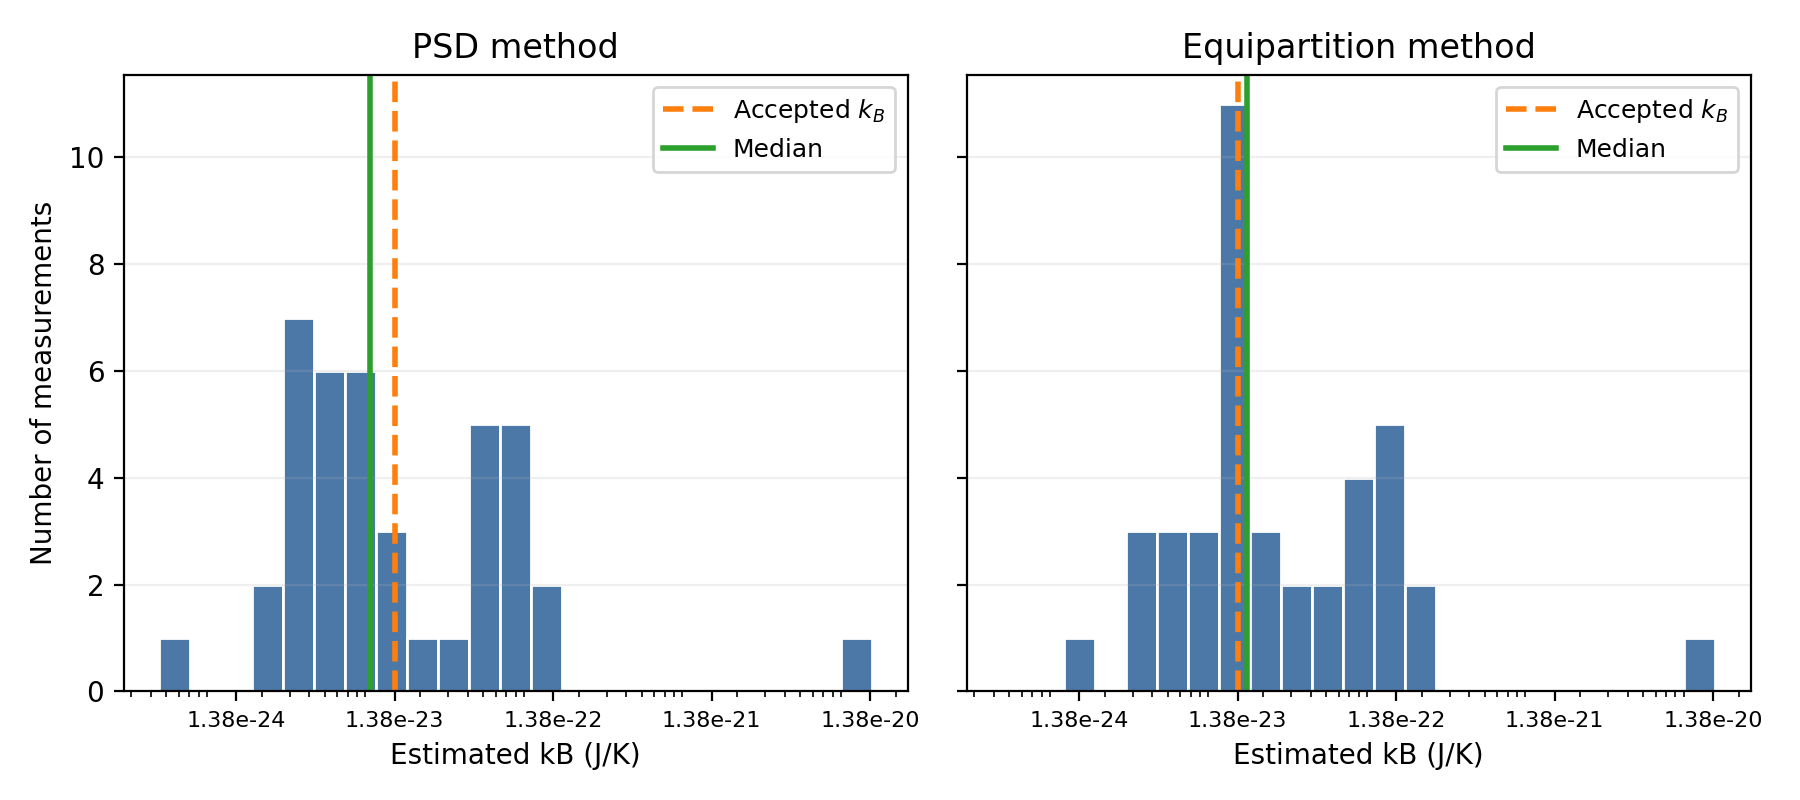
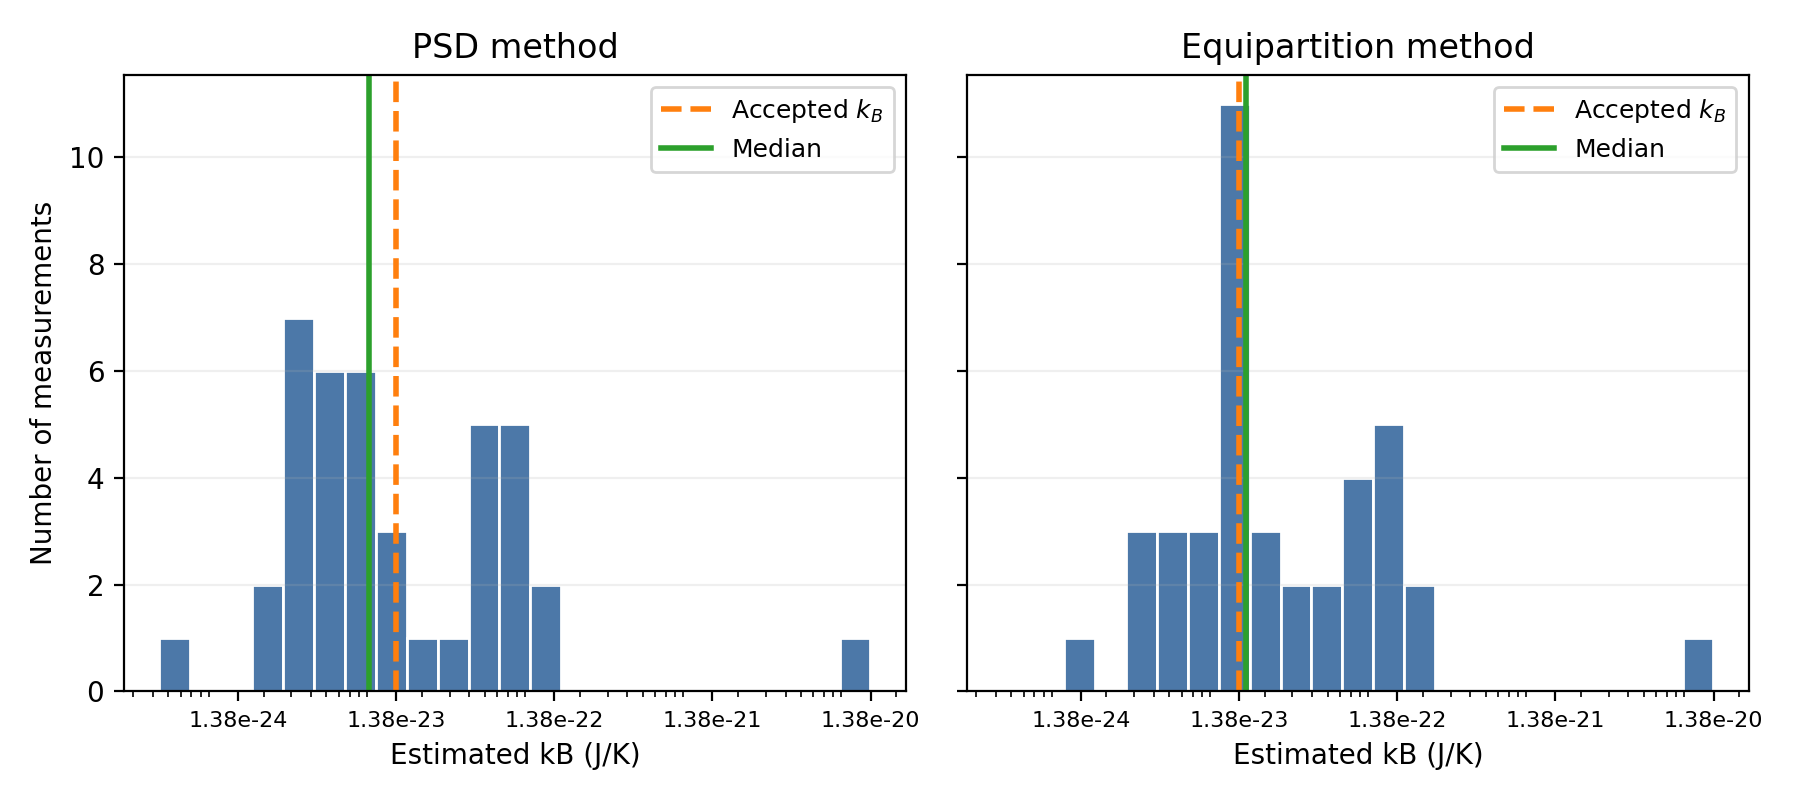
Paper edit 2

diff --git a/analyze.py b/analyze.py
@@ -8,8 +8,19 @@ ROOT = Path(__file__).resolve().parent
 OUT = ROOT / 'results'
 OUT.mkdir(exist_ok=True)
 FS = 5000
-T = 299.0
-ETA = 8.75e-4
+def water_viscosity(temp_c):
+    return 2.414e-5 * 10 ** (247.8 / (temp_c + 133.15))
+
+temperature_files = sorted((ROOT / 'data/floating_bead').rglob('*.txt'))
+temperatures_f = np.array([float(re.search(r'_ltemp_([0-9.,]+)_stemp', f.name).group(1).replace(',', '.')) for f in temperature_files])
+TEMP_MEAN_F = temperatures_f.mean()
+TEMP_SD_F = temperatures_f.std(ddof=1)
+TEMP_MEAN_C = (TEMP_MEAN_F - 32) * 5 / 9
+T = TEMP_MEAN_C + 273.15
+ETA = water_viscosity(TEMP_MEAN_C)
+ETA_SIGMA = (water_viscosity(TEMP_MEAN_C - TEMP_SD_F * 5 / 9) - water_viscosity(TEMP_MEAN_C + TEMP_SD_F * 5 / 9)) / (2 * ETA)
+print(f'Temperature: n={len(temperatures_f)}, mean={TEMP_MEAN_F:.4f} F, SD={TEMP_SD_F:.4f} F, range={temperatures_f.min():.1f}-{temperatures_f.max():.1f} F')
+print(f'Water viscosity at mean temperature: {ETA:.6g} Pa s; relative sigma from +-1 SD: {ETA_SIGMA*100:.3f}%')
 STAGE = 2e-6
 KB = 1.380649e-23
 DIAMETERS = {1: 1.05e-6, 3: 3.17e-6}
@@ -97,6 +108,7 @@ for file in sorted((ROOT / 'data/floating_bead').rglob('*.txt')):
 
 data = pd.DataFrame(rows).sort_values(['size_folder', 'current_mA', 'axis'])
 data.to_csv(OUT / 'measurements.csv', index=False)
+pd.DataFrame([dict(n_recordings=len(temperatures_f), mean_F=TEMP_MEAN_F, sd_F=TEMP_SD_F, min_F=temperatures_f.min(), max_F=temperatures_f.max(), mean_K=T, eta_Pa_s=ETA, eta_rel_sigma=ETA_SIGMA)]).to_csv(OUT / 'temperature_viscosity.csv', index=False)
 files = data.file.unique()
 arr = data.reset_index(drop=True)
 record_groups = [arr.index[arr.file == f].to_numpy() for f in files]
@@ -107,7 +119,7 @@ idx = np.array([
     np.concatenate([record_groups[i] for i in draw])
     for draw in draws
 ])
-eta_factor = 1 + RNG.normal(0, 0.015, size=N)
+eta_factor = 1 + RNG.normal(0, ETA_SIGMA, size=N)
 correction = np.ones((N, len(arr))) * eta_factor[:, None]
 for size in (1, 3):
     d_factor = (DIAMETERS[size] + RNG.normal(0, 0.005e-6, N)) / DIAMETERS[size]

diff --git a/stiffness_errors.py b/stiffness_errors.py
@@ -47,7 +47,7 @@ for file in measurements.file.unique():
         sigma_fc = np.std(corners, ddof=1) / np.sqrt(5)
         alpha = row.alpha_pN_um
         sigma_fit = alpha * sigma_fc / row.corner_frequency_Hz
-        sigma_eta = alpha * 0.015
+        sigma_eta = alpha * float(pd.read_csv(out / 'temperature_viscosity.csv').eta_rel_sigma.iloc[0])
         sigma_d = alpha * 0.005 / row.bead_um
         rows.append(dict(file=file, axis=axis, bead_um=row.bead_um,
                          current_mA=row.current_mA, f0_Hz=row.corner_frequency_Hz,

diff --git a/README.md b/README.md
@@ -1,0 +1,17 @@
+# Optical trapping analysis (temperature updated)
+
+Open this folder in VS Code, install dependencies, then run:
+
+```bash
+python -m pip install -r requirements.txt
+python run_all.py
+```
+
+The program uses all 20 floating-bead temperature readings (mean 80.555 F, sample SD 2.701 F). It uses the viscosity at the mean temperature and a viscosity uncertainty calculated from the mean +/- one sample SD. The output plots and CSVs are written to `results/`.
+
+Figures:
+- `results/qpd_calibration.png` (unchanged by the temperature update)
+- `results/trap_stiffness.png` (temperature-updated)
+- `results/kb_histograms.png` (temperature-updated)
+
+The numerical fit procedures remain unweighted; the plotted stiffness error bars and chi-square evaluation use propagated uncertainties.
